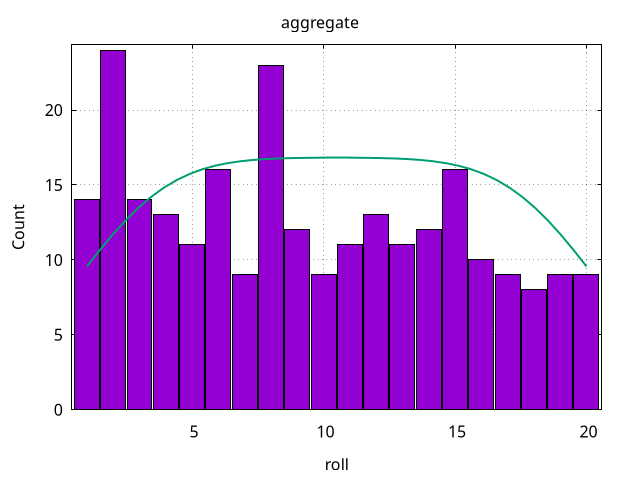
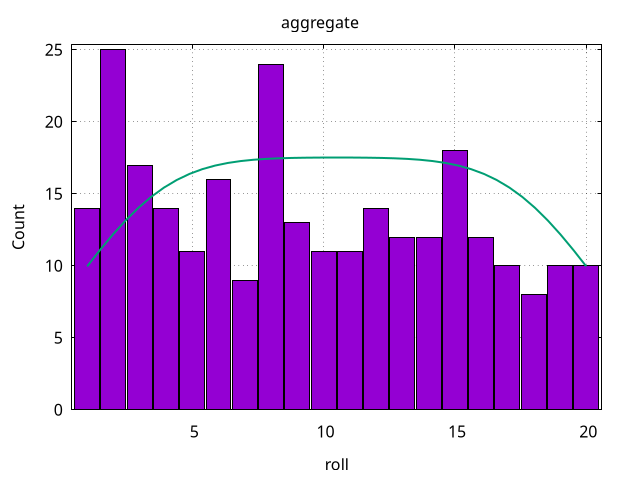
Add new one-shot campaign

diff --git a/README.md b/README.md
@@ -1,11 +1,14 @@
 <!-- NOTE: This document is generated. Do not hand-edit! -->
+
 # D&D Roll Statistics
 
 This project tracks my d20 roll statistics for the Dungeons & Dragons games I participate in.
 
 Table of contents:
+
 * [Global Statistics](#global-statistics)
 * Campaign Statistics
+  * [angel](#angel-statistics)
   * [one-shot-gang](#one-shot-gang-statistics)
   * [tyranny-of-dragons-1](#tyranny-of-dragons-1-statistics)
 * [FAQ](#faq)
@@ -19,10 +22,24 @@ Here's a histogram of all aggregated rolls across all campaigns:
 and the overall statistics:
 
 | count | mean | stddev | Q1 | median | Q3 |
-| --- | --- | --- | --- | --- | --- |
-| 253 | 9.44 | 5.75 | 4 | 9 | 14 |
+| ----- | ---- | ------ | -- | ------ | -- |
+| 271   | 9.53 | 5.85   | 4  | 9      | 15 |
 
 # Campaign Statistics
+
+## angel statistics
+
+Here's a histogram of all aggregated rolls for the 'angel' campaign:
+
+![angel Aggregate Histogram](figures/angel/aggregate-histogram.png)
+
+and the per-session statistics:
+
+| session                                                       | count | mean  | stddev | Q1   | median | Q3    |
+| ------------------------------------------------------------- | ----- | ----- | ------ | ---- | ------ | ----- |
+| aggregate                                                     | 18    | 10.83 | 7.53   | 4    | 11     | 16    |
+| [session-01](figures/angel/sessions/session-01-histogram.png) | 9     | 10.33 | 9.04   | 3.50 | 10     | 15.50 |
+| [session-02](figures/angel/sessions/session-02-histogram.png) | 9     | 11.33 | 9.62   | 5.50 | 12     | 16.50 |
 
 ## one-shot-gang statistics
 
@@ -32,10 +49,10 @@ Here's a histogram of all aggregated rolls for the 'one-shot-gang' campaign:
 
 and the per-session statistics:
 
-| session | count | mean | stddev | Q1 | median | Q3 |
-| --- | --- | --- | --- | --- | --- | --- |
-| aggregate | 21 | 9 | 6.73 | 2 | 9 | 15 |
-| [session-01](figures/one-shot-gang/sessions/session-01-histogram.png) | 21 | 9 | 6.73 | 2 | 9 | 15 |
+| session                                                               | count | mean | stddev | Q1 | median | Q3 |
+| --------------------------------------------------------------------- | ----- | ---- | ------ | -- | ------ | -- |
+| aggregate                                                             | 21    | 9    | 6.73   | 2  | 9      | 15 |
+| [session-01](figures/one-shot-gang/sessions/session-01-histogram.png) | 21    | 9    | 6.73   | 2  | 9      | 15 |
 
 ## tyranny-of-dragons-1 statistics
 
@@ -45,23 +62,23 @@ Here's a histogram of all aggregated rolls for the 'tyranny-of-dragons-1' campai
 
 and the per-session statistics:
 
-| session | count | mean | stddev | Q1 | median | Q3 |
-| --- | --- | --- | --- | --- | --- | --- |
-| aggregate | 232 | 9.48 | 5.74 | 5 | 9 | 14 |
-| [session-01](figures/tyranny-of-dragons-1/sessions/session-01-histogram.png) | 24 | 9.79 | 6.93 | 3.50 | 10 | 13 |
-| [session-02](figures/tyranny-of-dragons-1/sessions/session-02-histogram.png) | 21 | 9.57 | 5.80 | 5 | 8 | 14 |
-| [session-03](figures/tyranny-of-dragons-1/sessions/session-03-histogram.png) | 14 | 11.07 | 7.21 | 8 | 11 | 15 |
-| [session-04](figures/tyranny-of-dragons-1/sessions/session-04-histogram.png) | 22 | 10.64 | 7.97 | 5 | 10 | 16 |
-| [session-05](figures/tyranny-of-dragons-1/sessions/session-05-histogram.png) | 31 | 8.84 | 6.42 | 4 | 8 | 14 |
-| [session-06](figures/tyranny-of-dragons-1/sessions/session-06-histogram.png) | 23 | 9.26 | 6.30 | 6 | 8 | 13 |
-| [session-07](figures/tyranny-of-dragons-1/sessions/session-07-histogram.png) | 18 | 12.78 | 6.68 | 9 | 15 | 17 |
-| [session-08](figures/tyranny-of-dragons-1/sessions/session-08-histogram.png) | 26 | 6.92 | 5.09 | 2 | 6 | 10 |
-| [session-09](figures/tyranny-of-dragons-1/sessions/session-09-histogram.png) | 4 | 14.50 | 11.76 | 11 | 16 | 18 |
-| [session-10](figures/tyranny-of-dragons-1/sessions/session-10-histogram.png) | 11 | 8 | 6.40 | 4 | 7 | 13 |
-| [session-11](figures/tyranny-of-dragons-1/sessions/session-11-histogram.png) | 10 | 11.60 | 7.96 | 5 | 14.50 | 15 |
-| [session-12](figures/tyranny-of-dragons-1/sessions/session-12-histogram.png) | 2 | 7 | 6.32 |  |  |  |
-| [session-13](figures/tyranny-of-dragons-1/sessions/session-13-histogram.png) | 11 | 8.64 | 5.16 | 6 | 10 | 12 |
-| [session-14](figures/tyranny-of-dragons-1/sessions/session-14-histogram.png) | 15 | 7.07 | 5.62 | 3 | 6 | 10 |
+| session                                                                      | count | mean  | stddev | Q1   | median | Q3 |
+| ---------------------------------------------------------------------------- | ----- | ----- | ------ | ---- | ------ | -- |
+| aggregate                                                                    | 232   | 9.48  | 5.74   | 5    | 9      | 14 |
+| [session-01](figures/tyranny-of-dragons-1/sessions/session-01-histogram.png) | 24    | 9.79  | 6.93   | 3.50 | 10     | 13 |
+| [session-02](figures/tyranny-of-dragons-1/sessions/session-02-histogram.png) | 21    | 9.57  | 5.80   | 5    | 8      | 14 |
+| [session-03](figures/tyranny-of-dragons-1/sessions/session-03-histogram.png) | 14    | 11.07 | 7.21   | 8    | 11     | 15 |
+| [session-04](figures/tyranny-of-dragons-1/sessions/session-04-histogram.png) | 22    | 10.64 | 7.97   | 5    | 10     | 16 |
+| [session-05](figures/tyranny-of-dragons-1/sessions/session-05-histogram.png) | 31    | 8.84  | 6.42   | 4    | 8      | 14 |
+| [session-06](figures/tyranny-of-dragons-1/sessions/session-06-histogram.png) | 23    | 9.26  | 6.30   | 6    | 8      | 13 |
+| [session-07](figures/tyranny-of-dragons-1/sessions/session-07-histogram.png) | 18    | 12.78 | 6.68   | 9    | 15     | 17 |
+| [session-08](figures/tyranny-of-dragons-1/sessions/session-08-histogram.png) | 26    | 6.92  | 5.09   | 2    | 6      | 10 |
+| [session-09](figures/tyranny-of-dragons-1/sessions/session-09-histogram.png) | 4     | 14.50 | 11.76  | 11   | 16     | 18 |
+| [session-10](figures/tyranny-of-dragons-1/sessions/session-10-histogram.png) | 11    | 8     | 6.40   | 4    | 7      | 13 |
+| [session-11](figures/tyranny-of-dragons-1/sessions/session-11-histogram.png) | 10    | 11.60 | 7.96   | 5    | 14.50  | 15 |
+| [session-12](figures/tyranny-of-dragons-1/sessions/session-12-histogram.png) | 2     | 7     | 6.32   |      |        |    |
+| [session-13](figures/tyranny-of-dragons-1/sessions/session-13-histogram.png) | 11    | 8.64  | 5.16   | 6    | 10     | 12 |
+| [session-14](figures/tyranny-of-dragons-1/sessions/session-14-histogram.png) | 15    | 7.07  | 5.62   | 3    | 6      | 10 |
 
 # FAQ
 
